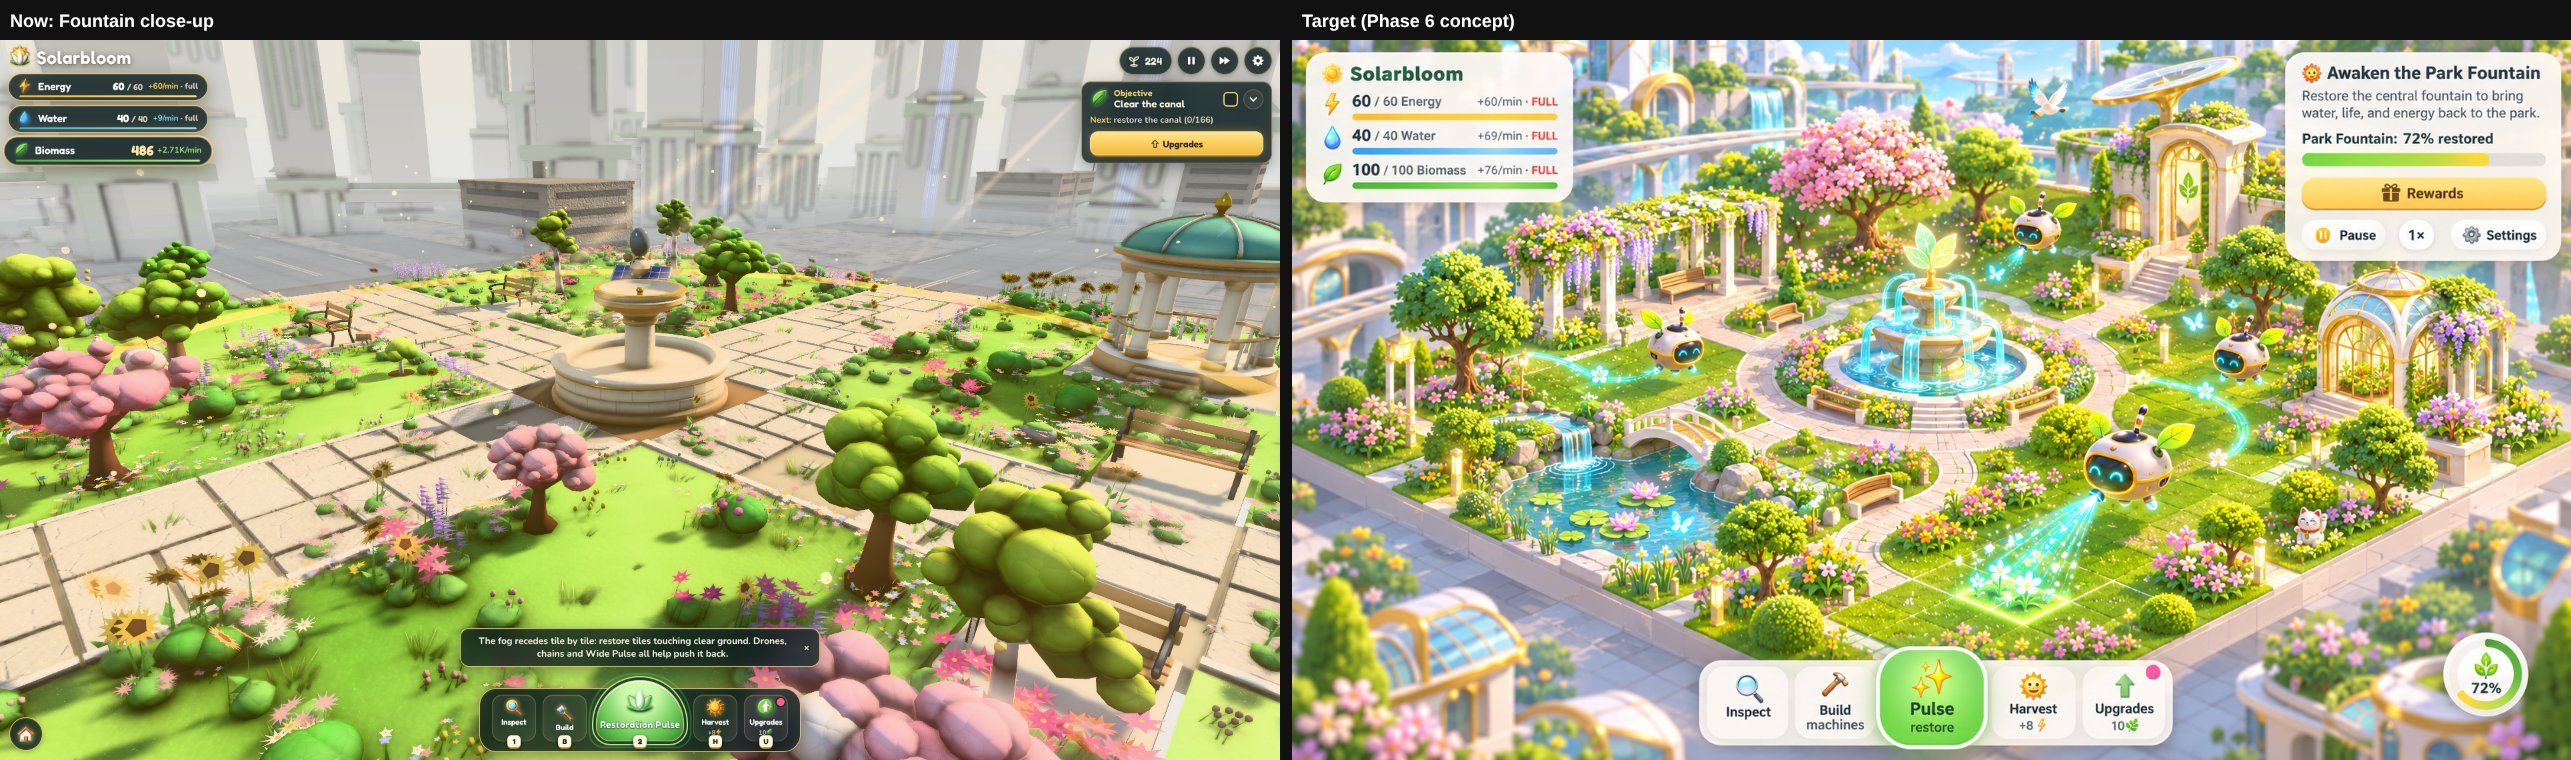
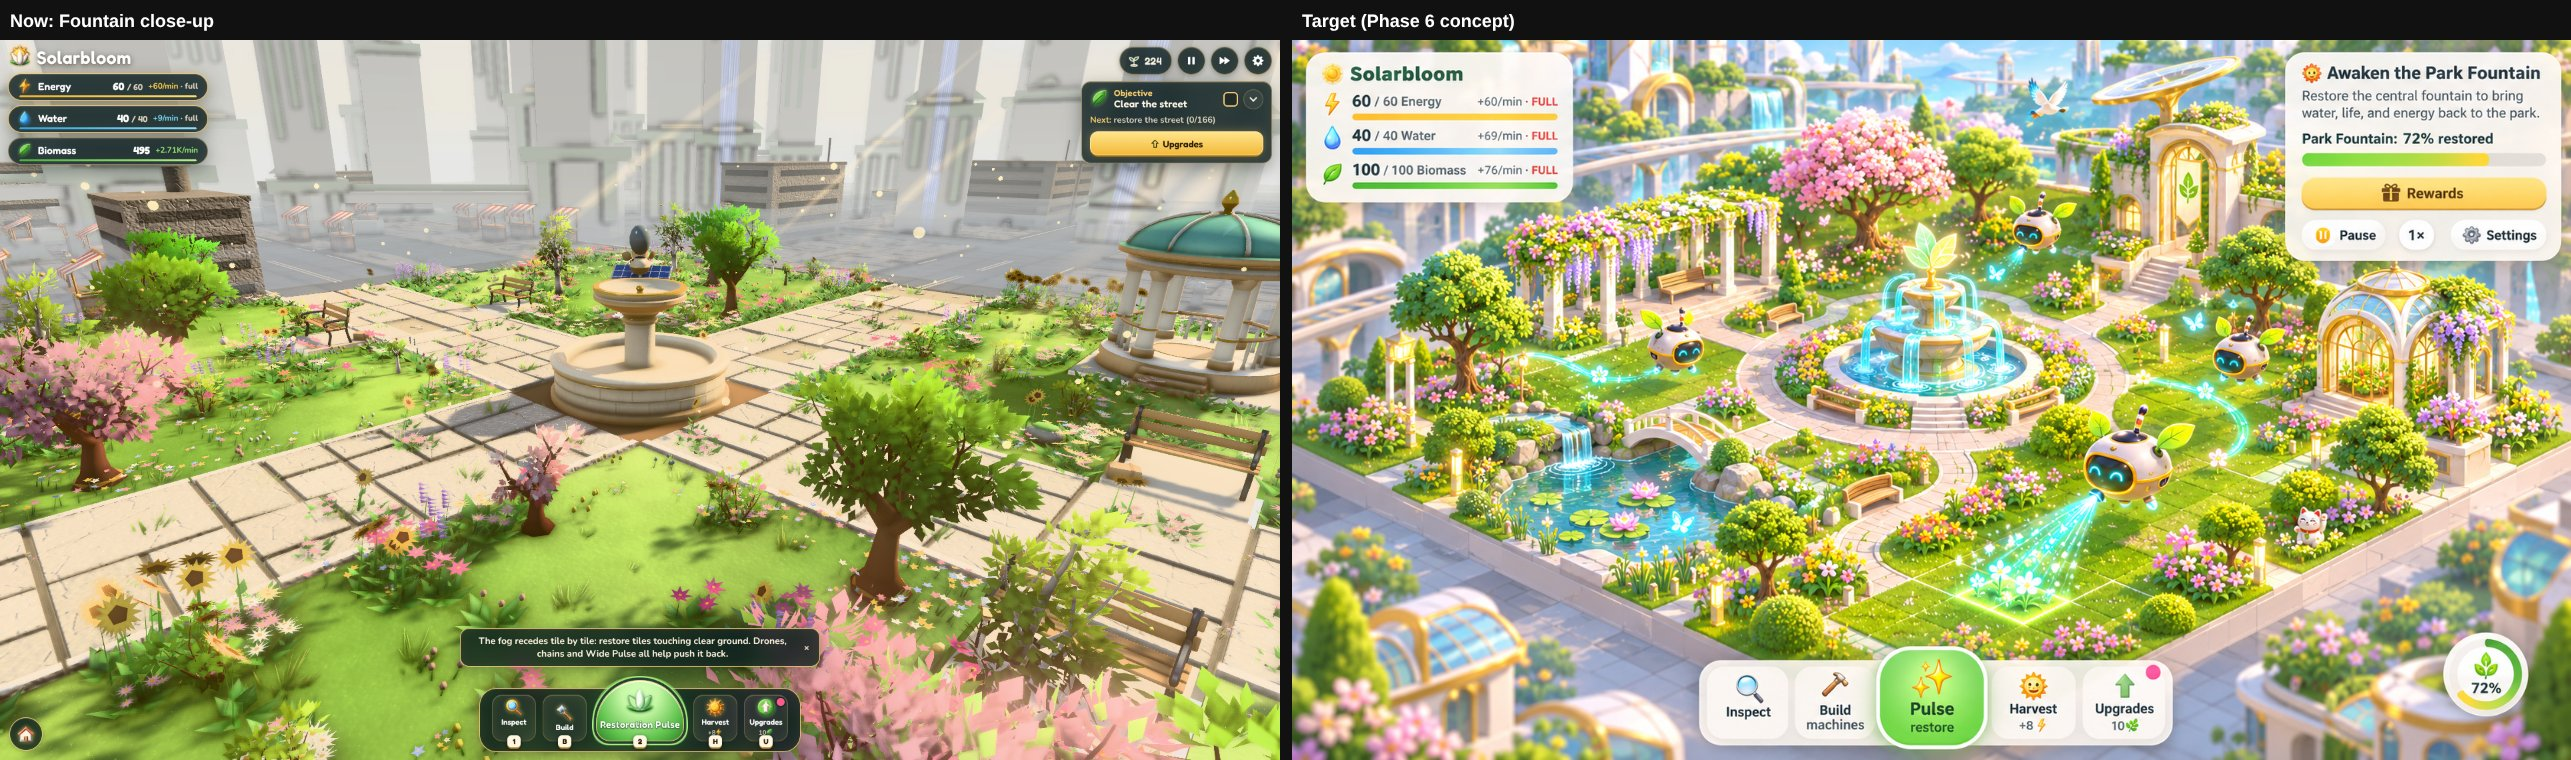
Fuller tree crowns at default zoom; whole-park life pass shots
Claude-Session: https://claude.ai/code/session_01SpBr3NuFhxMqy5qZqSwgwu

Changed region(s): [[0.0, 0.1513, 0.4979, 1.0], [0.1245, 0.2118, 0.1556, 0.2421]]

diff --git a/src/rendering/TreeGen.ts b/src/rendering/TreeGen.ts
@@ -459,7 +459,7 @@ function spray(B: Buf, R: () => number, at: Tip, n: number, reach: number, L: nu
 }
 
 /** Leaves per spray and leaf length factor per detail level (far … super close). */
-const LEAVES: Record<Lod, [number, number]> = { 0: [3, 2.1], 1: [13, 1.05], 2: [24, 0.78], 3: [32, 0.72] };
+const LEAVES: Record<Lod, [number, number]> = { 0: [3, 2.1], 1: [18, 1.22], 2: [24, 0.82], 3: [32, 0.72] };
 
 // ───────────── species ─────────────
 
